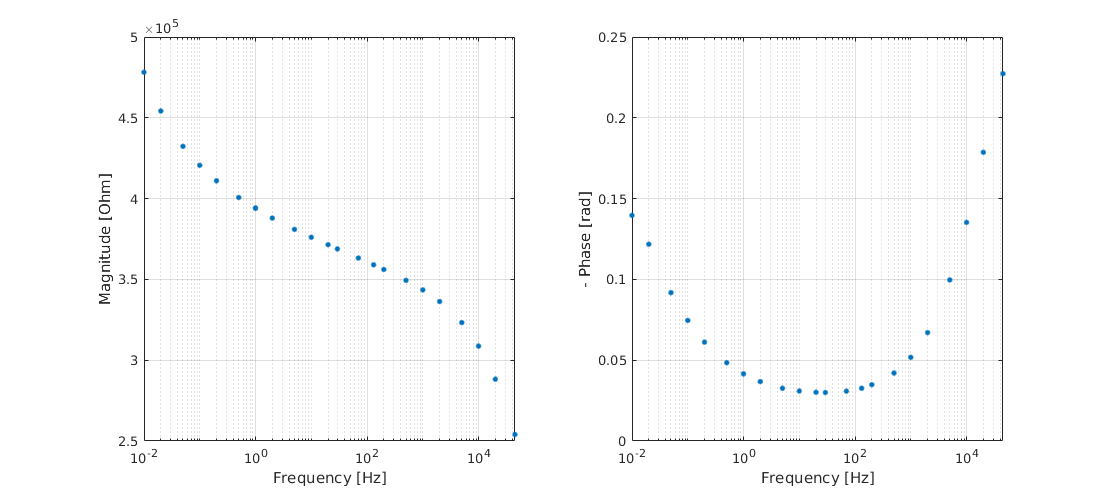
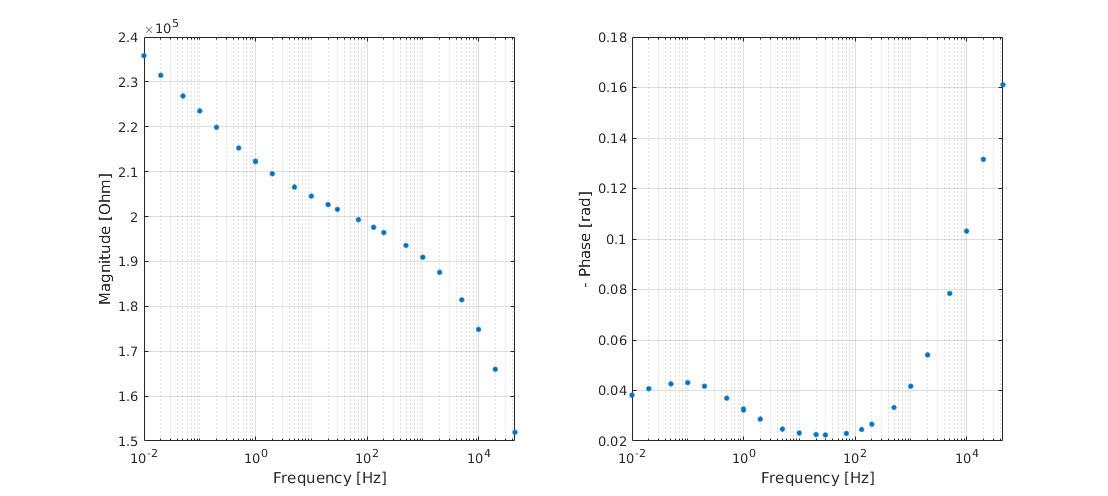
new plots added

diff --git a/SIP04_FZJ/frequency-test/20180329/Test01/Analysis/SIP_plot.m b/SIP04_FZJ/frequency-test/20180329/Test01/Analysis/SIP_plot.m
@@ -1,6 +1,6 @@
 % Read Data
-Magn = abs(Zgm);
-Phas = angle(Zgm);
+Magn = abs(Zmm);
+Phas = angle(Zmm);
 
 %Plot Data
 f = figure;

diff --git a/SIP04_FZJ/frequency-test/20180329/Test02/Analysis/SIP_plot.m b/SIP04_FZJ/frequency-test/20180329/Test02/Analysis/SIP_plot.m
@@ -1,6 +1,6 @@
 % Read Data
-Magn = abs(Zgm);
-Phas = angle(Zgm);
+Magn = abs(Zmm);
+Phas = angle(Zmm);
 
 %Plot Data
 f = figure;

diff --git a/SIP04_FZJ/frequency-test/20180329/Test03/Analysis/SIP_plot.m b/SIP04_FZJ/frequency-test/20180329/Test03/Analysis/SIP_plot.m
@@ -1,6 +1,6 @@
 % Read Data
-Magn = abs(Zgm);
-Phas = angle(Zgm);
+Magn = abs(Zmm);
+Phas = angle(Zmm);
 
 %Plot Data
 f = figure;

diff --git a/SIP04_FZJ/frequency-test/20180329/Test04/Analysis/SIP_plot.m b/SIP04_FZJ/frequency-test/20180329/Test04/Analysis/SIP_plot.m
@@ -1,6 +1,6 @@
 % Read Data
-Magn = abs(Zgm);
-Phas = angle(Zgm);
+Magn = abs(Zmm);
+Phas = angle(Zmm);
 
 %Plot Data
 f = figure;

diff --git a/SIP04_FZJ/frequency-test/20180329/Test05/Analysis/SIP_plot.m b/SIP04_FZJ/frequency-test/20180329/Test05/Analysis/SIP_plot.m
@@ -1,6 +1,6 @@
 % Read Data
-Magn = abs(Zgm);
-Phas = angle(Zgm);
+Magn = abs(Zmm);
+Phas = angle(Zmm);
 
 %Plot Data
 f = figure;

diff --git a/SIP04_FZJ/frequency-test/20180329/Test06/Analysis/SIP_plot.m b/SIP04_FZJ/frequency-test/20180329/Test06/Analysis/SIP_plot.m
@@ -1,6 +1,6 @@
 % Read Data
-Magn = abs(Zgm);
-Phas = angle(Zgm);
+Magn = abs(Zmm);
+Phas = angle(Zmm);
 
 %Plot Data
 f = figure;
